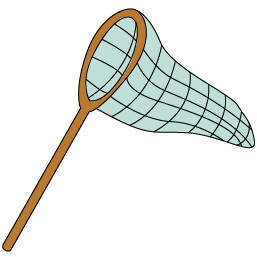
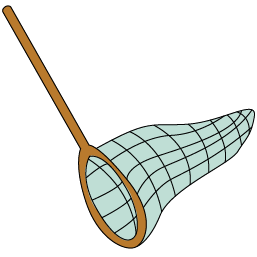
Added net as object type and image constructor for platforms

diff --git a/src/model/LevelOne.java b/src/model/LevelOne.java
@@ -27,17 +27,17 @@ public class LevelOne {
 		blocks.add(new Floor(1,1,1,1,1,1,ObjectType.Wall,RangeType.Short,false,false,Game.gameControl));
 		blocks.getLast().isLegend = true;
 		
-		blocks.add(new Platform(1000,300,0,0,30,300,ObjectType.Wall,RangeType.Mid,true,false, Game.gameControl));
-		blocks.add(new Platform(1600,100,0,0,20,300,ObjectType.Wall,RangeType.Short,true,false, Game.gameControl));
-		blocks.add(new Platform(2200,200,0,0,40,300,ObjectType.Wall,RangeType.Long,true,false, Game.gameControl));
-		blocks.add(new Platform(2700,50,0,0,30,300,ObjectType.Wall,RangeType.Short,true,false,Game.gameControl));
-		blocks.add(new Platform(3200,100,0,0,20,300,ObjectType.Wall,RangeType.Long,true,false,Game.gameControl));
-		blocks.add(new Platform(3700,300,0,0,30,300,ObjectType.Wall,RangeType.Mid,true,false,Game.gameControl));
-		blocks.add(new Platform(4200,100,0,0,20,300,ObjectType.Wall,RangeType.Long,true,false,Game.gameControl));
-		blocks.add(new Platform(4700,200,0,0,40,300,ObjectType.Wall,RangeType.Short,true,false,Game.gameControl));
-		blocks.add(new Platform(5200,100,0,0,30,300,ObjectType.Wall,RangeType.Long,true,false,Game.gameControl));
-		blocks.add(new Platform(5700,200,0,0,20,300,ObjectType.Wall,RangeType.Mid,true,false,Game.gameControl));
-		blocks.add(new Platform(6200,300,0,0,300,30,ObjectType.Wall,RangeType.None,false,false,Game.gameControl));
+		blocks.add(new Platform(1000,300,0,0,257,310,ObjectType.Net,RangeType.Mid,true,false, Game.gameControl));
+		blocks.add(new Platform(1600,100,0,0,257,310,ObjectType.Net,RangeType.Short,true,false, Game.gameControl));
+		blocks.add(new Platform(2200,200,0,0,257,310,ObjectType.Net,RangeType.Long,true,false, Game.gameControl));
+		blocks.add(new Platform(2700,50,0,0,257,310,ObjectType.Net,RangeType.Short,true,false,Game.gameControl));
+		blocks.add(new Platform(3200,100,0,0,257,310,ObjectType.Net,RangeType.Long,true,false,Game.gameControl));
+		blocks.add(new Platform(3700,300,0,0,257,310,ObjectType.Net,RangeType.Mid,true,false,Game.gameControl));
+		blocks.add(new Platform(4200,100,0,0,257,310,ObjectType.Net,RangeType.Long,true,false,Game.gameControl));
+		blocks.add(new Platform(4700,200,0,0,257,310,ObjectType.Net,RangeType.Short,true,false,Game.gameControl));
+		blocks.add(new Platform(5200,100,0,0,257,310,ObjectType.Net,RangeType.Long,true,false,Game.gameControl));
+		blocks.add(new Platform(5700,200,0,0,257,310,ObjectType.Net,RangeType.Mid,true,false,Game.gameControl));
+		blocks.add(new Platform(6200,300,0,0,257,310,ObjectType.Wall,RangeType.None,false,false,Game.gameControl));
 		
 		blocks.getLast().setFinal(true);
 		blocks.add(new Floor(300,Game.HEIGHT*Game.SCALE-100,0,0,1000,100,ObjectType.Wall,RangeType.None,false,false,Game.gameControl));
@@ -68,12 +68,7 @@ public class LevelOne {
 	 * Creates obstacles for the level and adds them to the list of obstacles.
 	 */
 	public void fillObstacles(){
-		levelObjects.add(new Obstacle(2300,150, 0, 0, 70,70,ObjectType.People, RangeType.Short, false, false, Game.gameControl));
-		levelObjects.add(new Obstacle(3000,550, 0, 0, 70,70,ObjectType.People, RangeType.Short, false, false, Game.gameControl));
-		levelObjects.add(new Obstacle(3300,400, 0, 0, 70,70,ObjectType.People, RangeType.Short, false, false, Game.gameControl));
-		levelObjects.add(new Obstacle(3600,550, 0, 0, 70,70,ObjectType.People, RangeType.Short, false, false, Game.gameControl));
-		levelObjects.add(new Obstacle(4100,250, 0, 0, 70,70,ObjectType.People, RangeType.Short, false, false, Game.gameControl));
-		levelObjects.add(new Obstacle(4950,300, 0, 0, 70,70,ObjectType.People, RangeType.Short, false, false, Game.gameControl));
+		
 	}
 	
 	/**

diff --git a/src/model/Platform.java b/src/model/Platform.java
@@ -2,6 +2,7 @@ package model;
 
 import java.awt.Color;
 import java.awt.Graphics;
+import java.awt.image.BufferedImage;
 import java.util.Random;
 
 import controller.GameController;
@@ -16,7 +17,9 @@ import game.Game;
  *
  */
 public class Platform extends Block{
-
+	
+	BufferedImage item;
+	
 	/**
 	 * Construtor for platform. Sends everything to the superclass constructor.
 	 * @param x The platform's x position.
@@ -33,6 +36,13 @@ public class Platform extends Block{
 	 */	
 	public Platform(int x, int y, int initx, int inity, int width, int height, ObjectType t, RangeType r, Boolean isVert, Boolean isHor, GameController gc){
 		super(x, y, initx, inity, width, height, t, r, isVert, isHor, gc);
+		switch(t){
+		case Net: file = "Final Images/Objects/net.png";
+			break;
+		case Wall: file = "Final Images/Backgrounds/sand_tile.jpg";
+			break;
+	}
+		item = createImage(file);
 	}
 
 	/**
@@ -48,20 +58,7 @@ public class Platform extends Block{
 	g.setColor(Color.YELLOW);
 	g.fillRect(getXPos(),getYPos(),getWidth(),getHeight());
 	}
-	else if(Game.getLevel() == 1){
-//		System.out.println(net);
-		g.drawImage(createImage("Final Images/Objects/net.png"), getXPos(), getYPos(), null);
-//		switch(net){
-//		case 0: g.drawImage(createImage("Final Images/Objects/net.png"), getXPos(), getYPos(), null);
-//		break;
-//		case 1: g.drawImage(createImage("Final Images/Objects/net(1).png"), getXPos(), getYPos(), null);
-//		break;
-//	}
-	}
-	else{
-	g.setColor(Color.WHITE);
-	g.fillRect(getXPos(),getYPos(),getWidth(),getHeight());
-	}
+	g.drawImage(item, getXPos(), getYPos(), getWidth(), getHeight(), null);
 	}
 
 	/**
@@ -93,7 +90,7 @@ public class Platform extends Block{
 			}
 		}
 		else if (Game.gameControl.goingLeft == true){
-			setXPos(getXPos() + 2);
+			setXPos(getXPos() + 5);
 		}
 		if (isHor()){
 			switch (getRange()) {

diff --git a/src/model/Obstacle.java b/src/model/Obstacle.java
@@ -32,33 +32,30 @@ public class Obstacle extends InteractiveObject{
 		switch(t){
 		case People:
 			file = "Final Images/People and Humanoids/mr_evil.png";
-			item = createImage(file);
 			break;
 		case Chemicals: 
 			file = "Final Images/Objects/StormDrain_01.png";
-			item = createImage(file);
 			break;
 		case EmptySoil:
 			file = "Final Images/Plants/sadmilkweed.png";
-			item = createImage(file);
 			break;
 		case DeadSoil:
 			file = "Final Images/Objects/soil.png";
-			item = createImage(file);
 			break;
 		case TrashBin:
 			file = "Final Images/Objects/trashcan_open.png";
-			item = createImage(file);
 			break;
 		case RecycleBin:
 			file = "Final Images/Objects/recycling.png";
-			item = createImage(file);
 			break;
 		case Erosion:
 			file = "Final Images/Environment Misc/no_erosion_icon.png";
-			item = createImage(file);
+			break;
+		case Net:
+			file = "Final Images/Objects/net.png";
 			break;
 		}
+		item = createImage(file);
 		// TODO Auto-generated constructor stub
 		//fall();
 	}
@@ -69,8 +66,7 @@ public class Obstacle extends InteractiveObject{
 	 */
 	@Override
 	public void draw(Graphics g) {
-		g.setColor(obsCol);
-		g.fillRect(getXPos(), getYPos(), getWidth(), getHeight());
+		g.drawImage(item, getXPos(), getYPos(), getWidth(), getHeight(), null);
 	}
 
 	/**
@@ -98,7 +94,9 @@ public class Obstacle extends InteractiveObject{
 //				this.yPos += 5;
 //			}
 //		}
-		
+		if(Game.getLevel() == 1){
+			setFalling(false);
+		}
 		if (Game.gameControl.goingRight == true){
 			if(Game.getLevel() == 1){
 				setXPos(getXPos() - 1);

diff --git a/src/model/Block.java b/src/model/Block.java
@@ -37,6 +37,8 @@ public abstract class Block {
 	
 	public GameController gamecontrol;
 	
+	String file;
+	
 	/**
 	 * Constructor for block.
 	 * @param x The block's x position.
@@ -278,35 +280,12 @@ public abstract class Block {
 	}
 	
 	/**
-	 * Gets the top bounds of the block. Used when determining collisions.
-	 * @return Rectangle A rectangle containing the top bounds of the block.
+	 * 
+	 * @param file
+	 * @return
 	 */
-	public Rectangle getTopBounds(){
-		return new Rectangle(this.getXPos()+10,this.getYPos(), width-20, 5);
-	}
-	
-	/**
-	 * Gets the bottom bounds of the block. Used when determining collisions.
-	 * @return Rectangle A rectangle containing the bottom bounds of the block.
-	 */
-	public Rectangle getBottomBounds(){
-		return new Rectangle(this.getXPos()+10,this.getYPos()+height-5, width-20, 5);
-	}
-	
-	/**
-	 * Gets the left bounds of the block. Used when determining collisions.
-	 * @return Rectangle A rectangle containing the left bounds of the block.
-	 */
-	public Rectangle getLeftBounds(){
-		return new Rectangle(this.getXPos(),this.getYPos()+10, 5, height-20);
-	}
-	
-	/**
-	 * Gets the right bounds of the block. Used when determining collisions.
-	 * @return Rectangle A rectangle containing the right bounds of the block.
-	 */
-	public Rectangle getRightBounds(){
-		return new Rectangle(this.getXPos()+width-5,this.getYPos()+10, 5, height-20);
+	public Rectangle getNetBounds(){
+		return new Rectangle(this.getXPos(), this.getYPos(), width-150, height - 180);
 	}
 	
 	public BufferedImage createImage(String file) {

diff --git a/src/model/Crabby.java b/src/model/Crabby.java
@@ -1,6 +1,7 @@
 package model;
 
 import java.awt.Graphics;
+import java.awt.Rectangle;
 import java.util.LinkedList;
 
 import controller.GameController;
@@ -83,34 +84,39 @@ public class Crabby extends Character{
 		}
 		for(int i = 0; i < gamecontrol.blocks.size(); i++){
 			Block b = gamecontrol.blocks.get(i);
-			if(getTopBounds().intersects(b.getBounds())){
+			Rectangle bbounds;
+			if(b.getType() == ObjectType.Net){
+				bbounds = b.getNetBounds();
+			}
+			else{
+				bbounds = b.getBounds();
+			}
+			if(getTopBounds().intersects(bbounds)){
 				setyVel(0);
-				if(isJumping()){
+				if(isJumping()&&Game.getLevel()!=1){
 					setJumping(false);
 					setGravity(0.8);
 					setFalling(true);
 				}
 			}
-			if(getBottomBounds().intersects(b.getBounds())){
+			if(getBottomBounds().intersects(bbounds)){
 				setyVel(0);
 				setYPos(b.getYPos()-64);
 				if(isFalling()) {
 					setFalling(false);
 					}
 			}else if (!isFalling()&&!isJumping()&&Game.getLevel()!=1){
-					if(Game.getLevel() == 1){
-						break;
-					}
-					else{
 					setFalling(true);
 					setGravity(0.8);
-					}
 			}
-			if(getLeftBounds().intersects(b.getBounds())){
+			if(getLeftBounds().intersects(bbounds)){
 				setxVel(0);
 				setXPos(b.getXPos() + getWidth());
 			}
-			if(getRightBounds().intersects(b.getBounds())){
+			if(getRightBounds().intersects(bbounds)){
+				if(Game.getLevel() == 1){
+					die();
+				}
 				setxVel(0);
 				setXPos(b.getXPos() - getWidth());
 			}

diff --git a/src/model/Item.java b/src/model/Item.java
@@ -33,33 +33,27 @@ public class Item extends InteractiveObject{
 		switch(t){
 			case TrashBag:
 				file = "Final Images/Objects/trashbag.png";
-				item = createImage(file);
 				break;
 			case Hay:
 				file = "Final Images/Objects/hay.png";
-				item = createImage(file);
 				break;
 			case Compost:
 				file = "Final Images/Objects/compost.png";
-				item = createImage(file);
 				break;
 			case Seeds:
 				file = "Final Images/Plants/seed.png";
-				item = createImage(file);
 				break;
 			case Oyster:
 				file = "Final Images/Animals/clam_left_2.png";
-				item = createImage(file);
 				break;
 			case Trash:
  				file = "Final Images/Objects/banana.png";
- 				item = createImage(file);
  				break;
  			case Recycling:
  				file = "Final Images/Objects/soda.png";
- 				item = createImage(file);
  				break;
 		}
+		item = createImage(file);
 		// TODO Auto-generated constructor stub
 	}
 

diff --git a/src/game/Game.java b/src/game/Game.java
@@ -74,7 +74,7 @@ public class Game extends JFrame implements Runnable{
 			levelOne.fillObstacles();
 			gameControl.entities = levelOne.getObjects();
 			gameControl.blocks = levelOne.getBlocks();
-			gameControl.crabby.setFalling(true);
+			gameControl.crabby.setSwimDown(true);
 		}
 
 		/**
@@ -336,6 +336,5 @@ public class Game extends JFrame implements Runnable{
 		public void setPane(Container pane) {
 			this.pane = pane;
 		}
-
 		
 }

diff --git a/src/model/ObjectType.java b/src/model/ObjectType.java
@@ -8,6 +8,6 @@ package model;
  * @author Nick Hoffman
  */
 public enum ObjectType {
-	Crabby, Wall, TrashBag, Hay, Seeds, Compost, People, Chemicals, EmptySoil, DeadSoil, Oyster, Trash, Recycling, RecycleBin, TrashBin, Erosion;
+	Crabby, Wall, TrashBag, Hay, Seeds, Compost, People, Chemicals, EmptySoil, DeadSoil, Oyster, Trash, Recycling, RecycleBin, TrashBin, Erosion, Net;
 }
 
